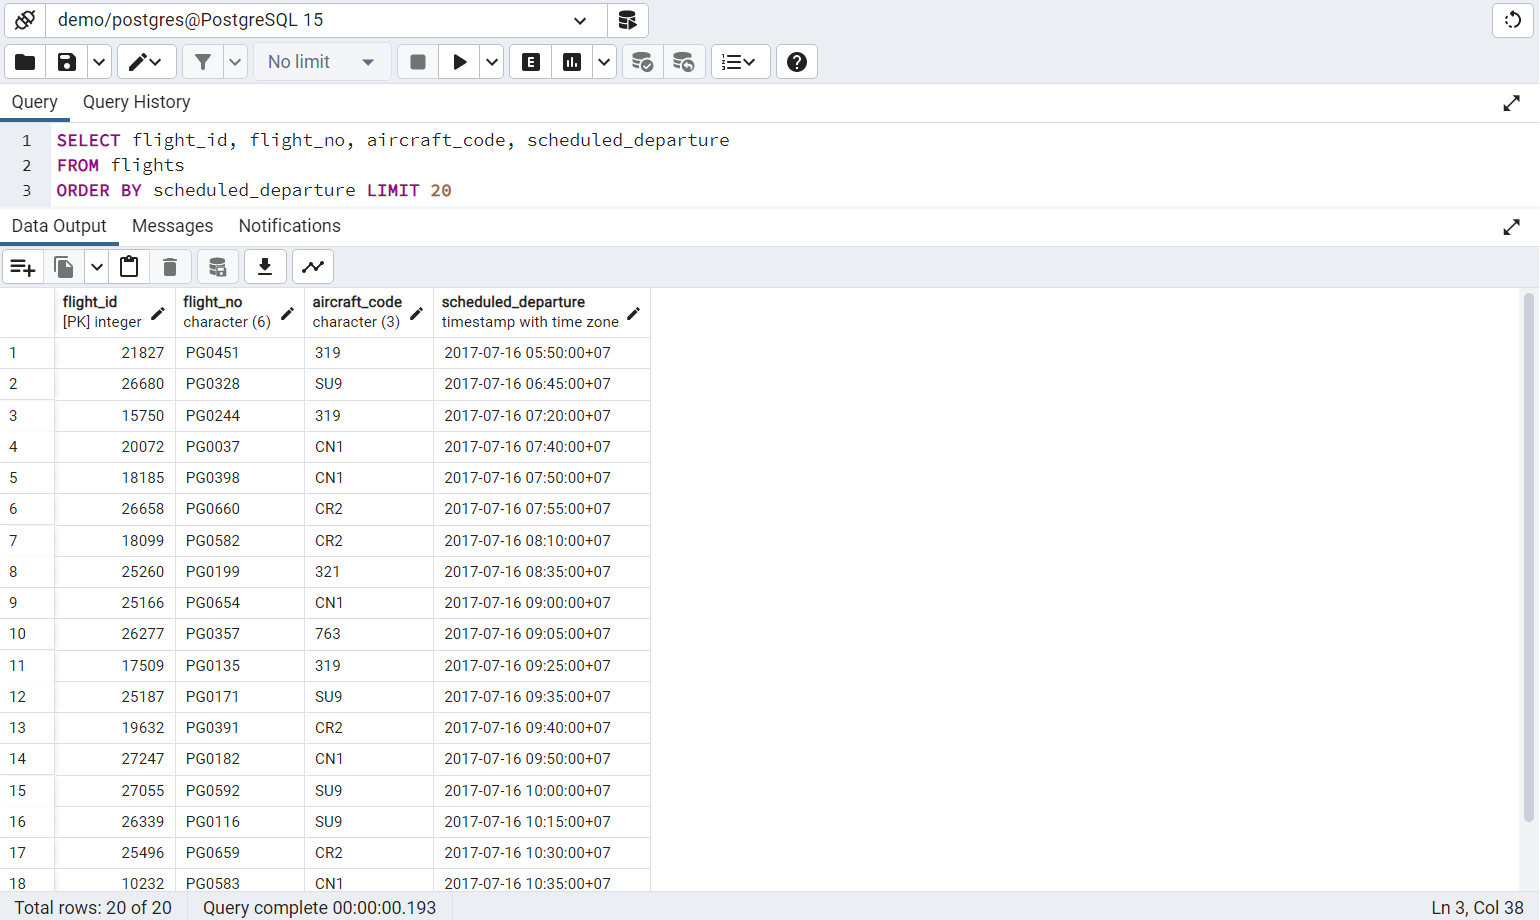
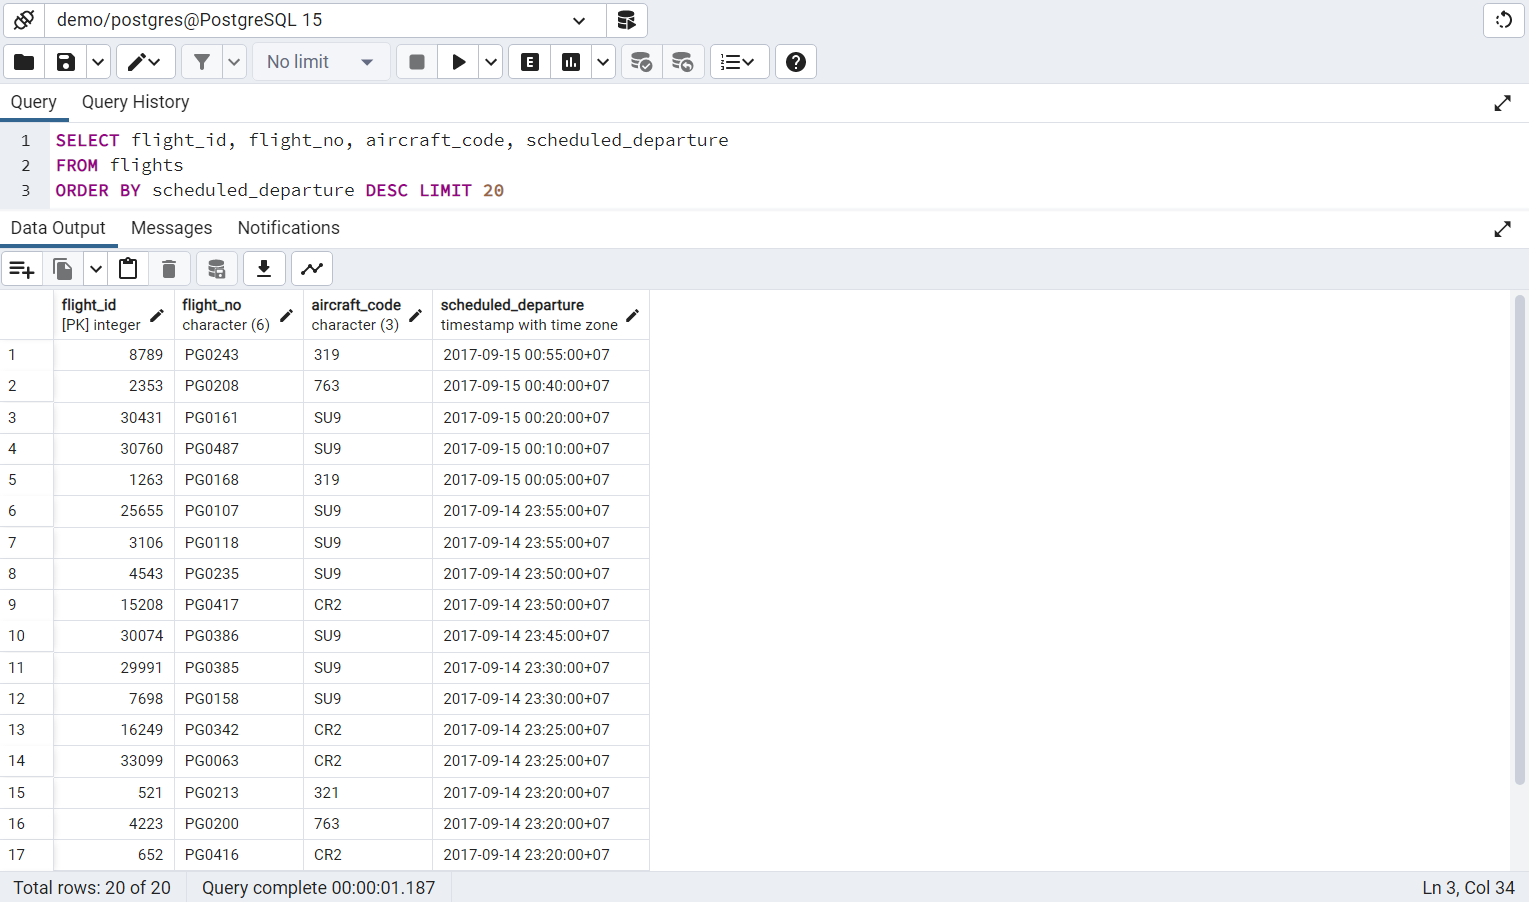
Исправлена Лабораторная №3

diff --git a/Лабораторная 3/README.md b/Лабораторная 3/README.md
@@ -11,10 +11,10 @@
 ### Запрос №1. Билеты для мест пятого ряда, эконом-класс
 ![Запрос №1](https://i.imgur.com/vjwHH7F.png)
 ### Запрос №2. Рейсы, от новых к старым (первые 20)
-![Запрос №2](https://i.imgur.com/EetJxkn.png)
+![Запрос №2](https://i.imgur.com/i0hxNU0.png)
 ### Запрос №3. Неповторяющиеся классы обслуживания и код самолета, в порядке увеличения кода
 ![Запрос №3](https://i.imgur.com/81Gk4pV.png)
 ### Запрос №4. Перелеты, начавшиеся и завершившиеся после 2017-09-14
-![Запрос №4](https://i.imgur.com/qELftt0.png)
+![Запрос №4](https://i.imgur.com/uMpylUZ.png)
 ### Запрос №5. Количество проданных билетов на каждый рейс
 ![Запрос №5](https://i.imgur.com/6uZlaKU.png)
